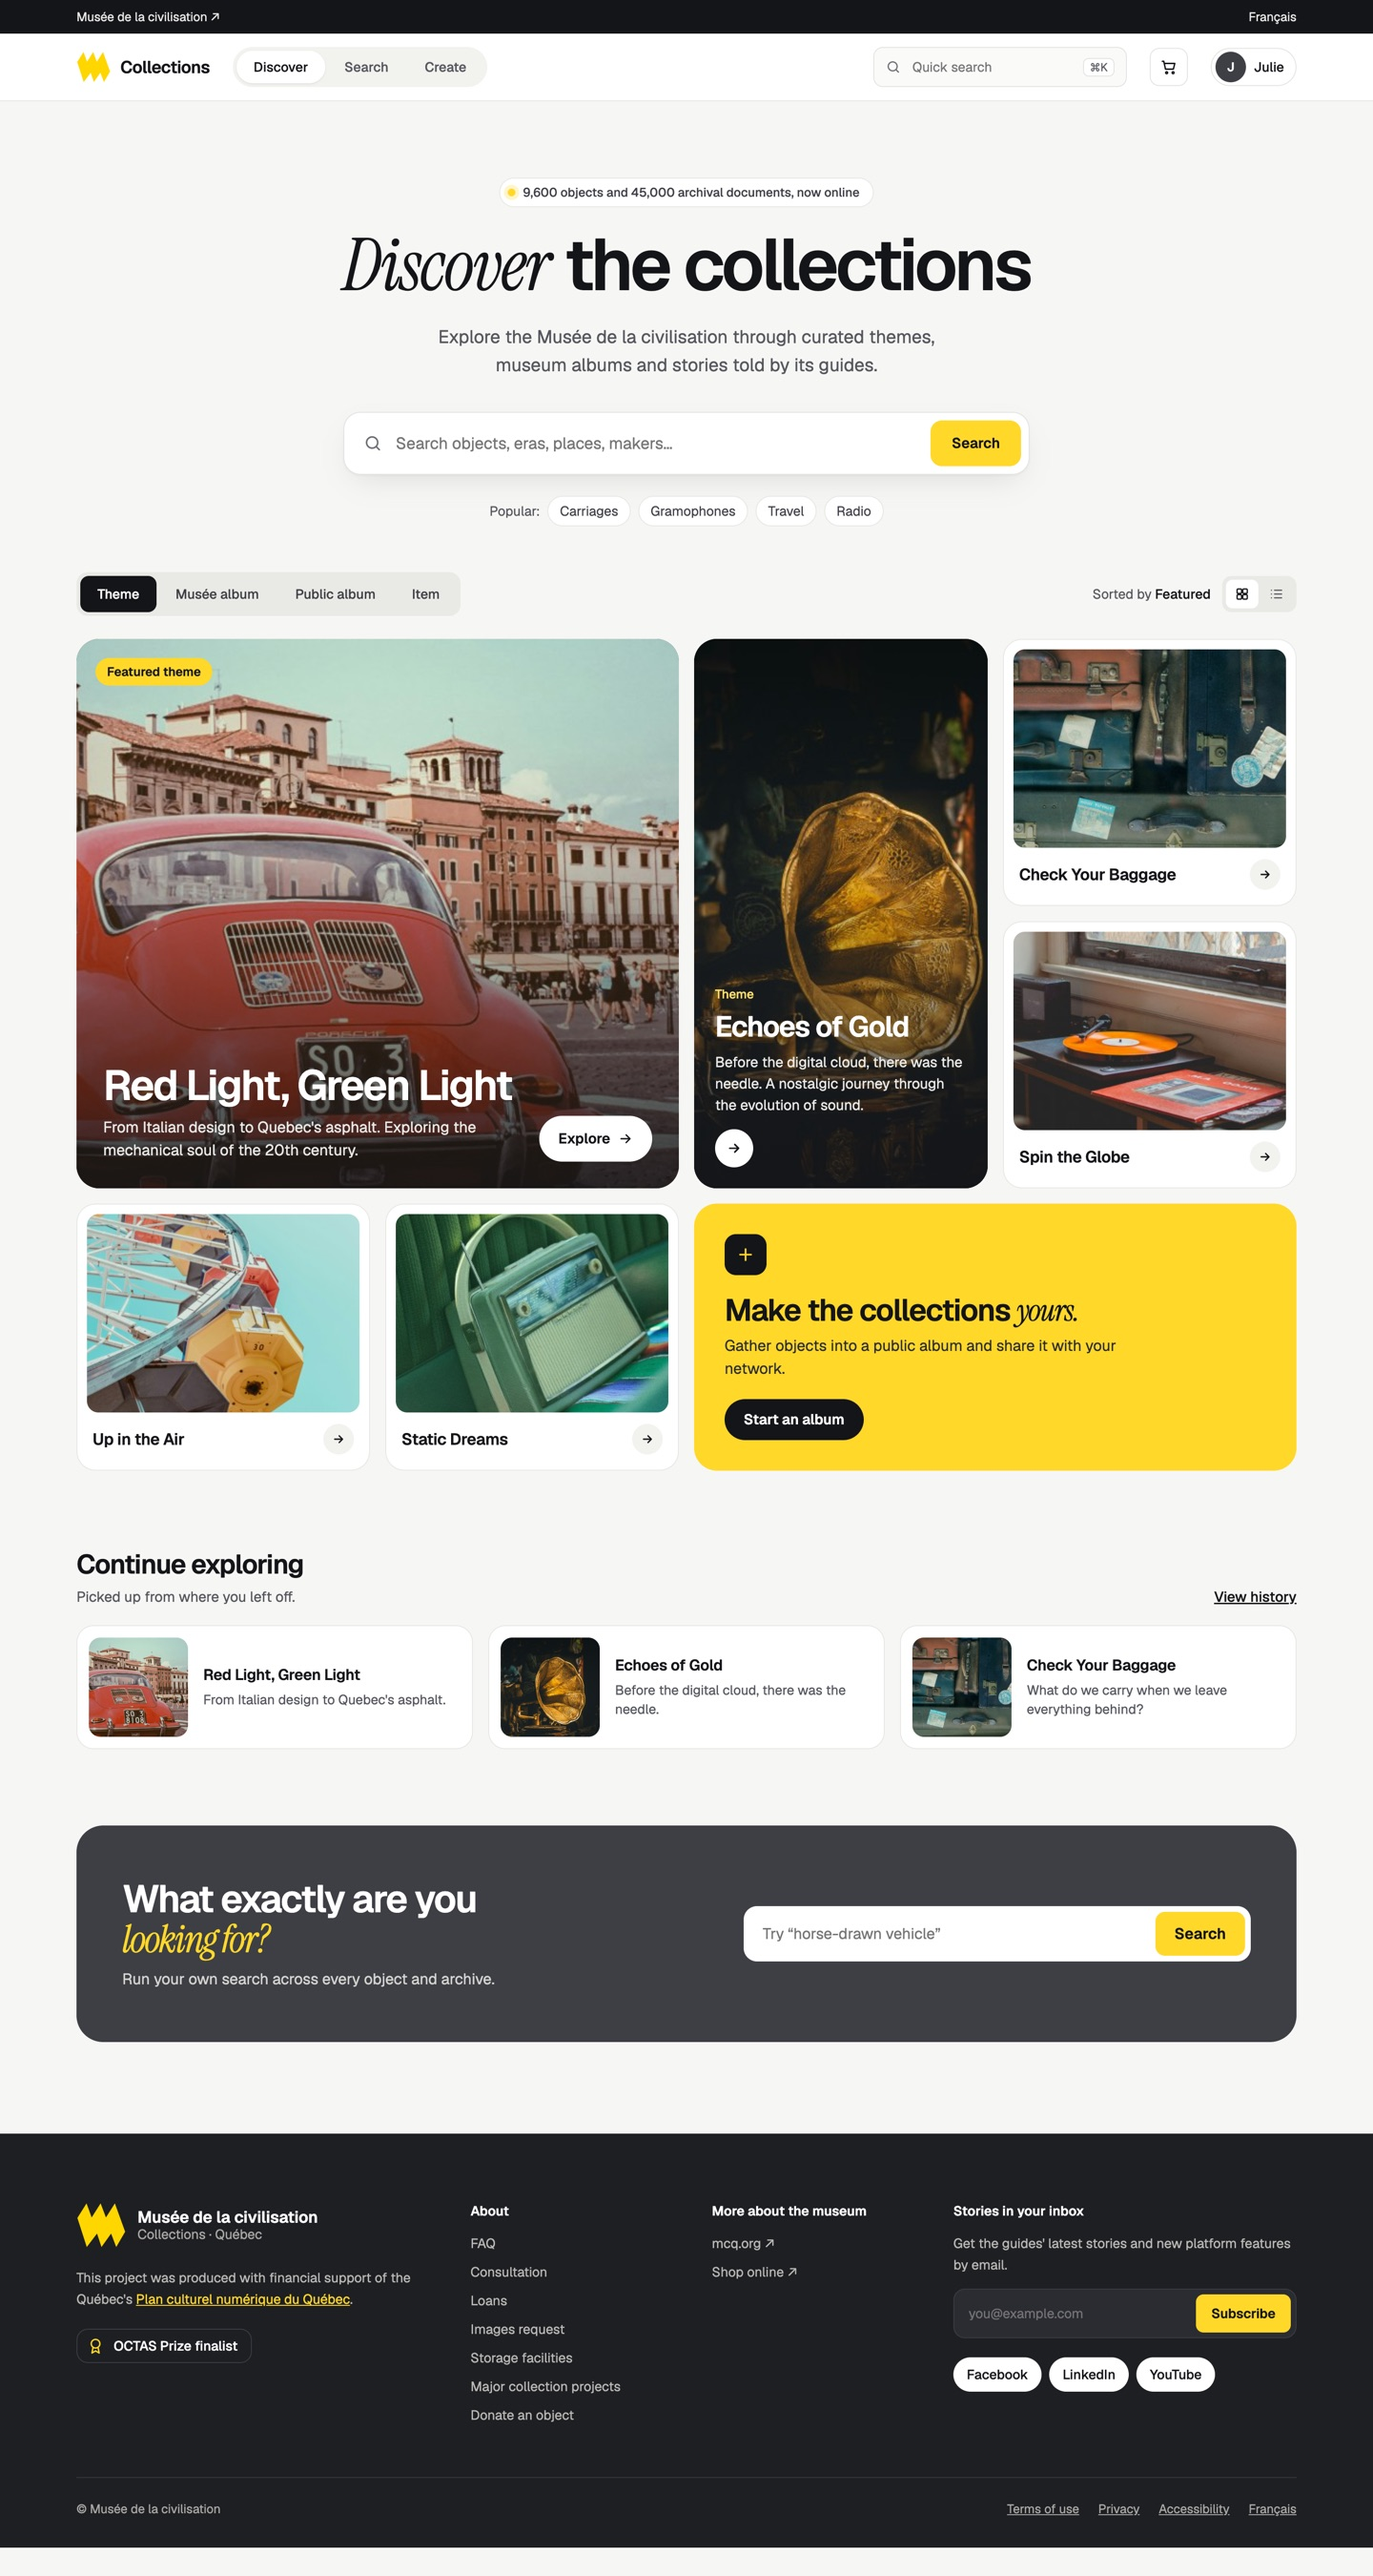
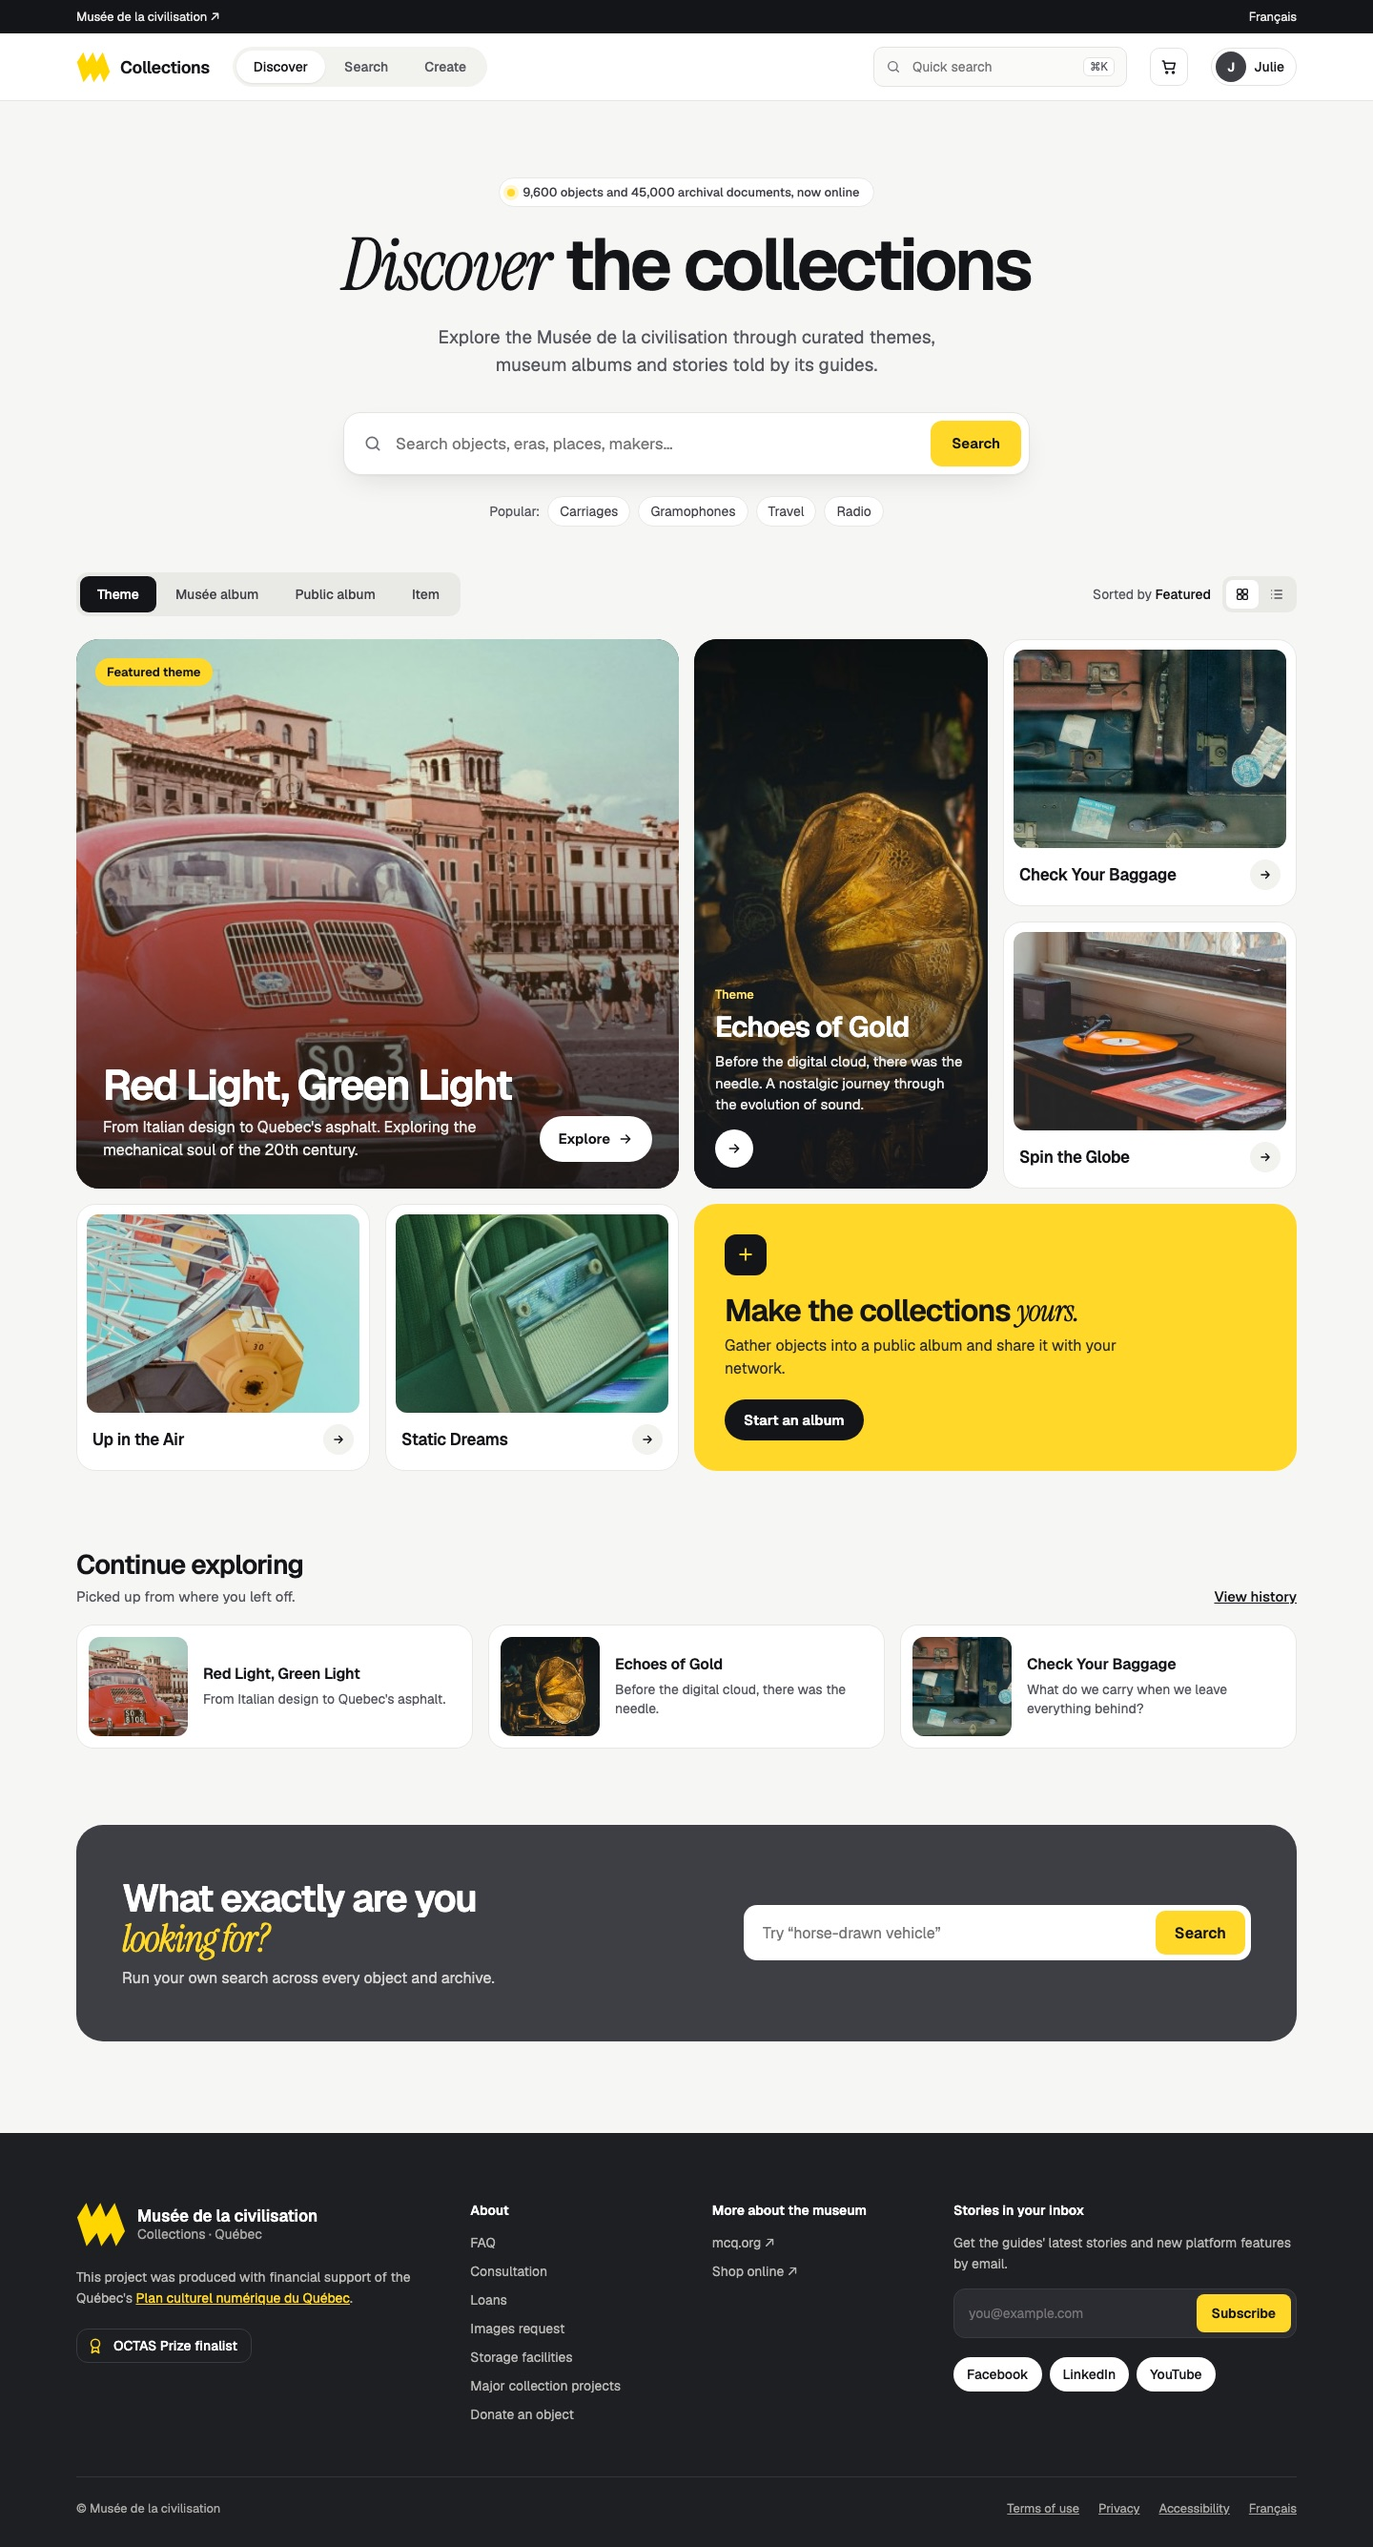
MCQ case study: equal 2×2 desktop screens, a new mobile section, fresh mockups
- Screens: four desktop pages as equal 4:3 previews (top of each page); the lightbox opens each page full length
- New "On mobile" section with five phone screens (Discover, Search, Filters, Object record, Story), designed in parallel with desktop
- Shots can show a cropped preview and open a full-length image (data-full); long phone screens scroll in the lightbox at phone width
- All screens re-rendered from the latest Collections mockups
- Solution cards get icons; laurel badge no longer clipped
- "OCTAS award finalist" / "finaliste aux prix OCTAS" across the site

diff --git a/src/assets/css/site.css b/src/assets/css/site.css
@@ -1216,3 +1216,12 @@ html { scroll-padding-top: 7rem; }
 
 /* stack3: the three right-hand screens share one landscape frame (top shown); the lightbox shows each page whole */
 @media (min-width: 640px) { .cd-shots--stack3 .cd-shot:not(:first-child) img { aspect-ratio: 16 / 10; object-fit: cover; object-position: top; } }
+
+/* Screens gallery, 2 × 2: four equal landscape previews (top of each page); the lightbox shows each page whole */
+@media (min-width: 640px) { .cd-shots--grid2 { grid-template-columns: repeat(2, minmax(0, 1fr)); } }
+/* Five phone screens: one row on wide screens, a swipeable row below */
+.cd-shots--5:has(.cd-shot--phone) { max-width: none; }
+@media (min-width: 900px) { .cd-shots--5 { grid-template-columns: repeat(5, minmax(0, 1fr)); } }
+@media (min-width: 640px) and (max-width: 899px) { .cd-shots--5:has(.cd-shot--phone img) { display: flex; overflow-x: auto; scroll-snap-type: x mandatory; padding-bottom: .5rem; } .cd-shots--5 .cd-shot--phone { flex: 0 0 30%; scroll-snap-align: start; } }
+/* a long phone screen scrolls in the lightbox at phone width instead of stretching to the desktop width */
+.lightbox--phone img { max-width: min(100%, 26rem); }

diff --git a/src/assets/js/site.js b/src/assets/js/site.js
@@ -239,11 +239,15 @@
     img.addEventListener('load', place);
     const open = () => {
       opener = b;
-      big.src = best(img);
+      big.src = img.dataset.full || best(img); // a cropped preview opens its full-length screen
       big.alt = img.alt;
       cap.textContent = fig.querySelector('figcaption')?.textContent || '';
       close.setAttribute('aria-label', fr ? 'Fermer' : 'Close');
-      dlg.classList.toggle('lightbox--tall', !fig.classList.contains('cd-shot--phone') && img.naturalHeight > img.naturalWidth * 1.2);
+      // Long screens scroll in the lightbox instead of shrinking to fit; a phone screen counts as long beyond one 390 × 844 screen
+      const phone = fig.classList.contains('cd-shot--phone');
+      const ratio = +img.dataset.ratio || img.naturalHeight / img.naturalWidth;
+      dlg.classList.toggle('lightbox--tall', ratio > (phone ? 2.4 : 1.2));
+      dlg.classList.toggle('lightbox--phone', phone);
       dlg.showModal();
       dlg.scrollTop = 0;
     };
